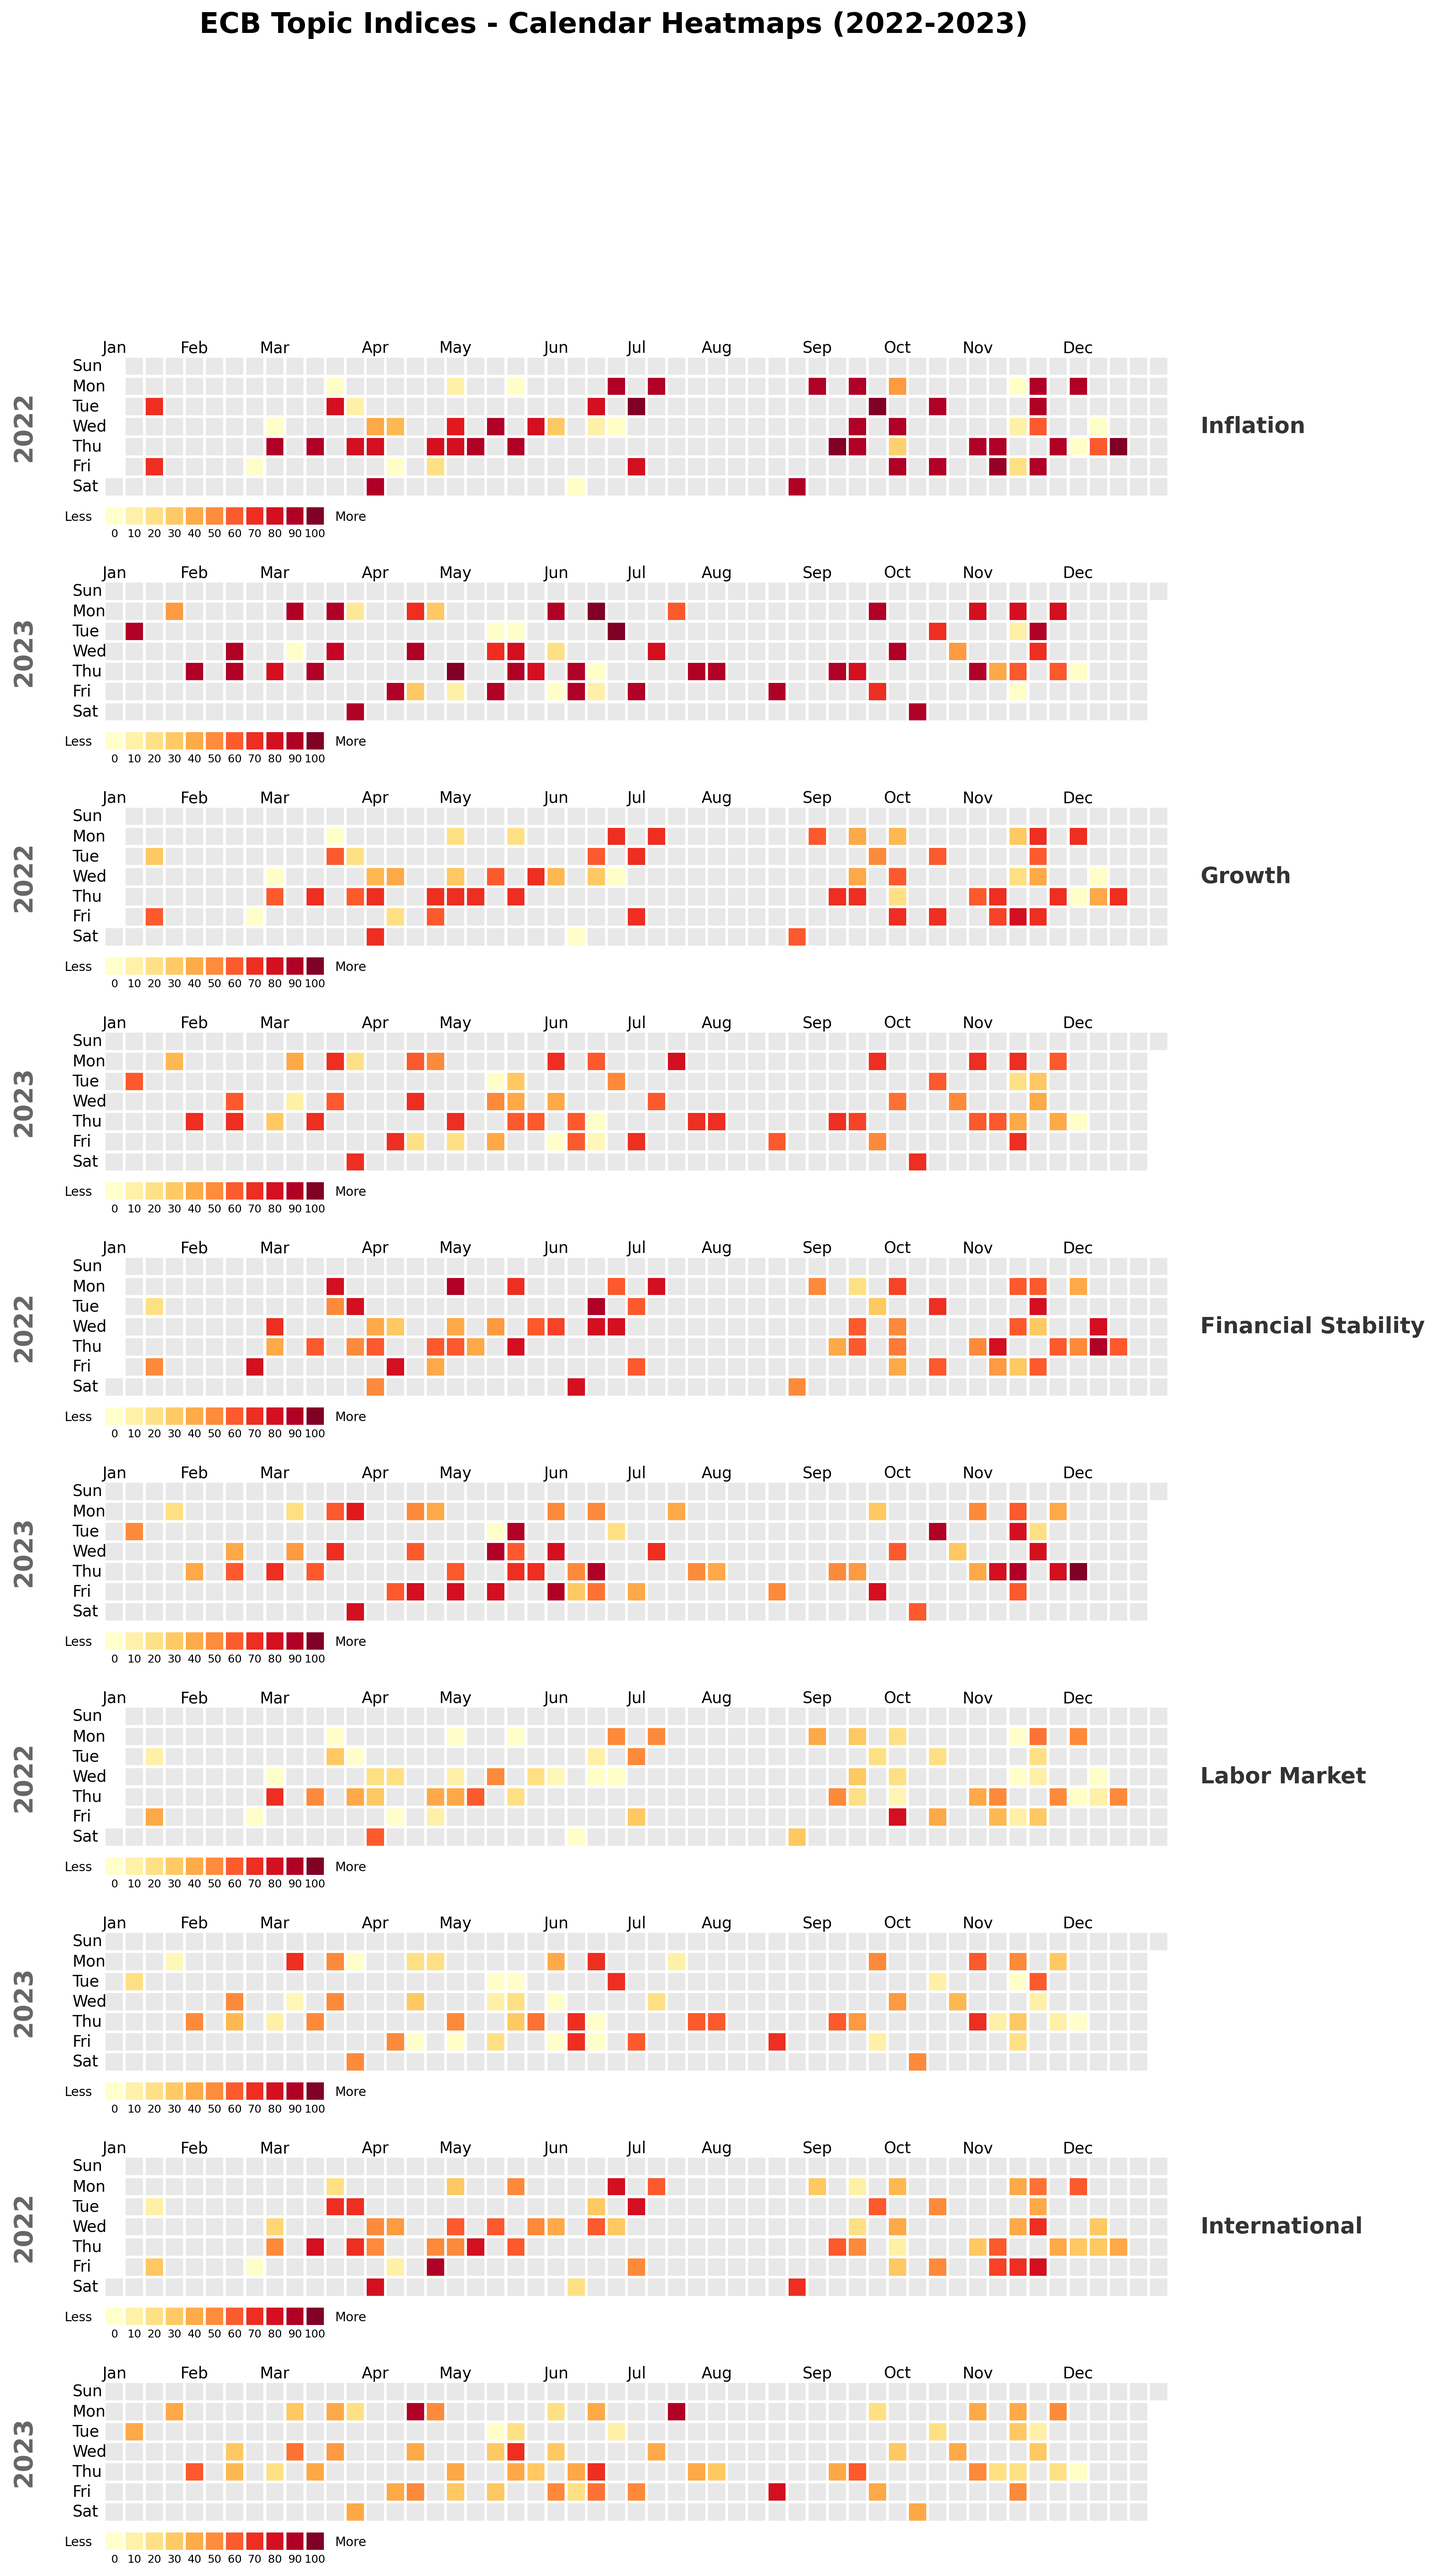
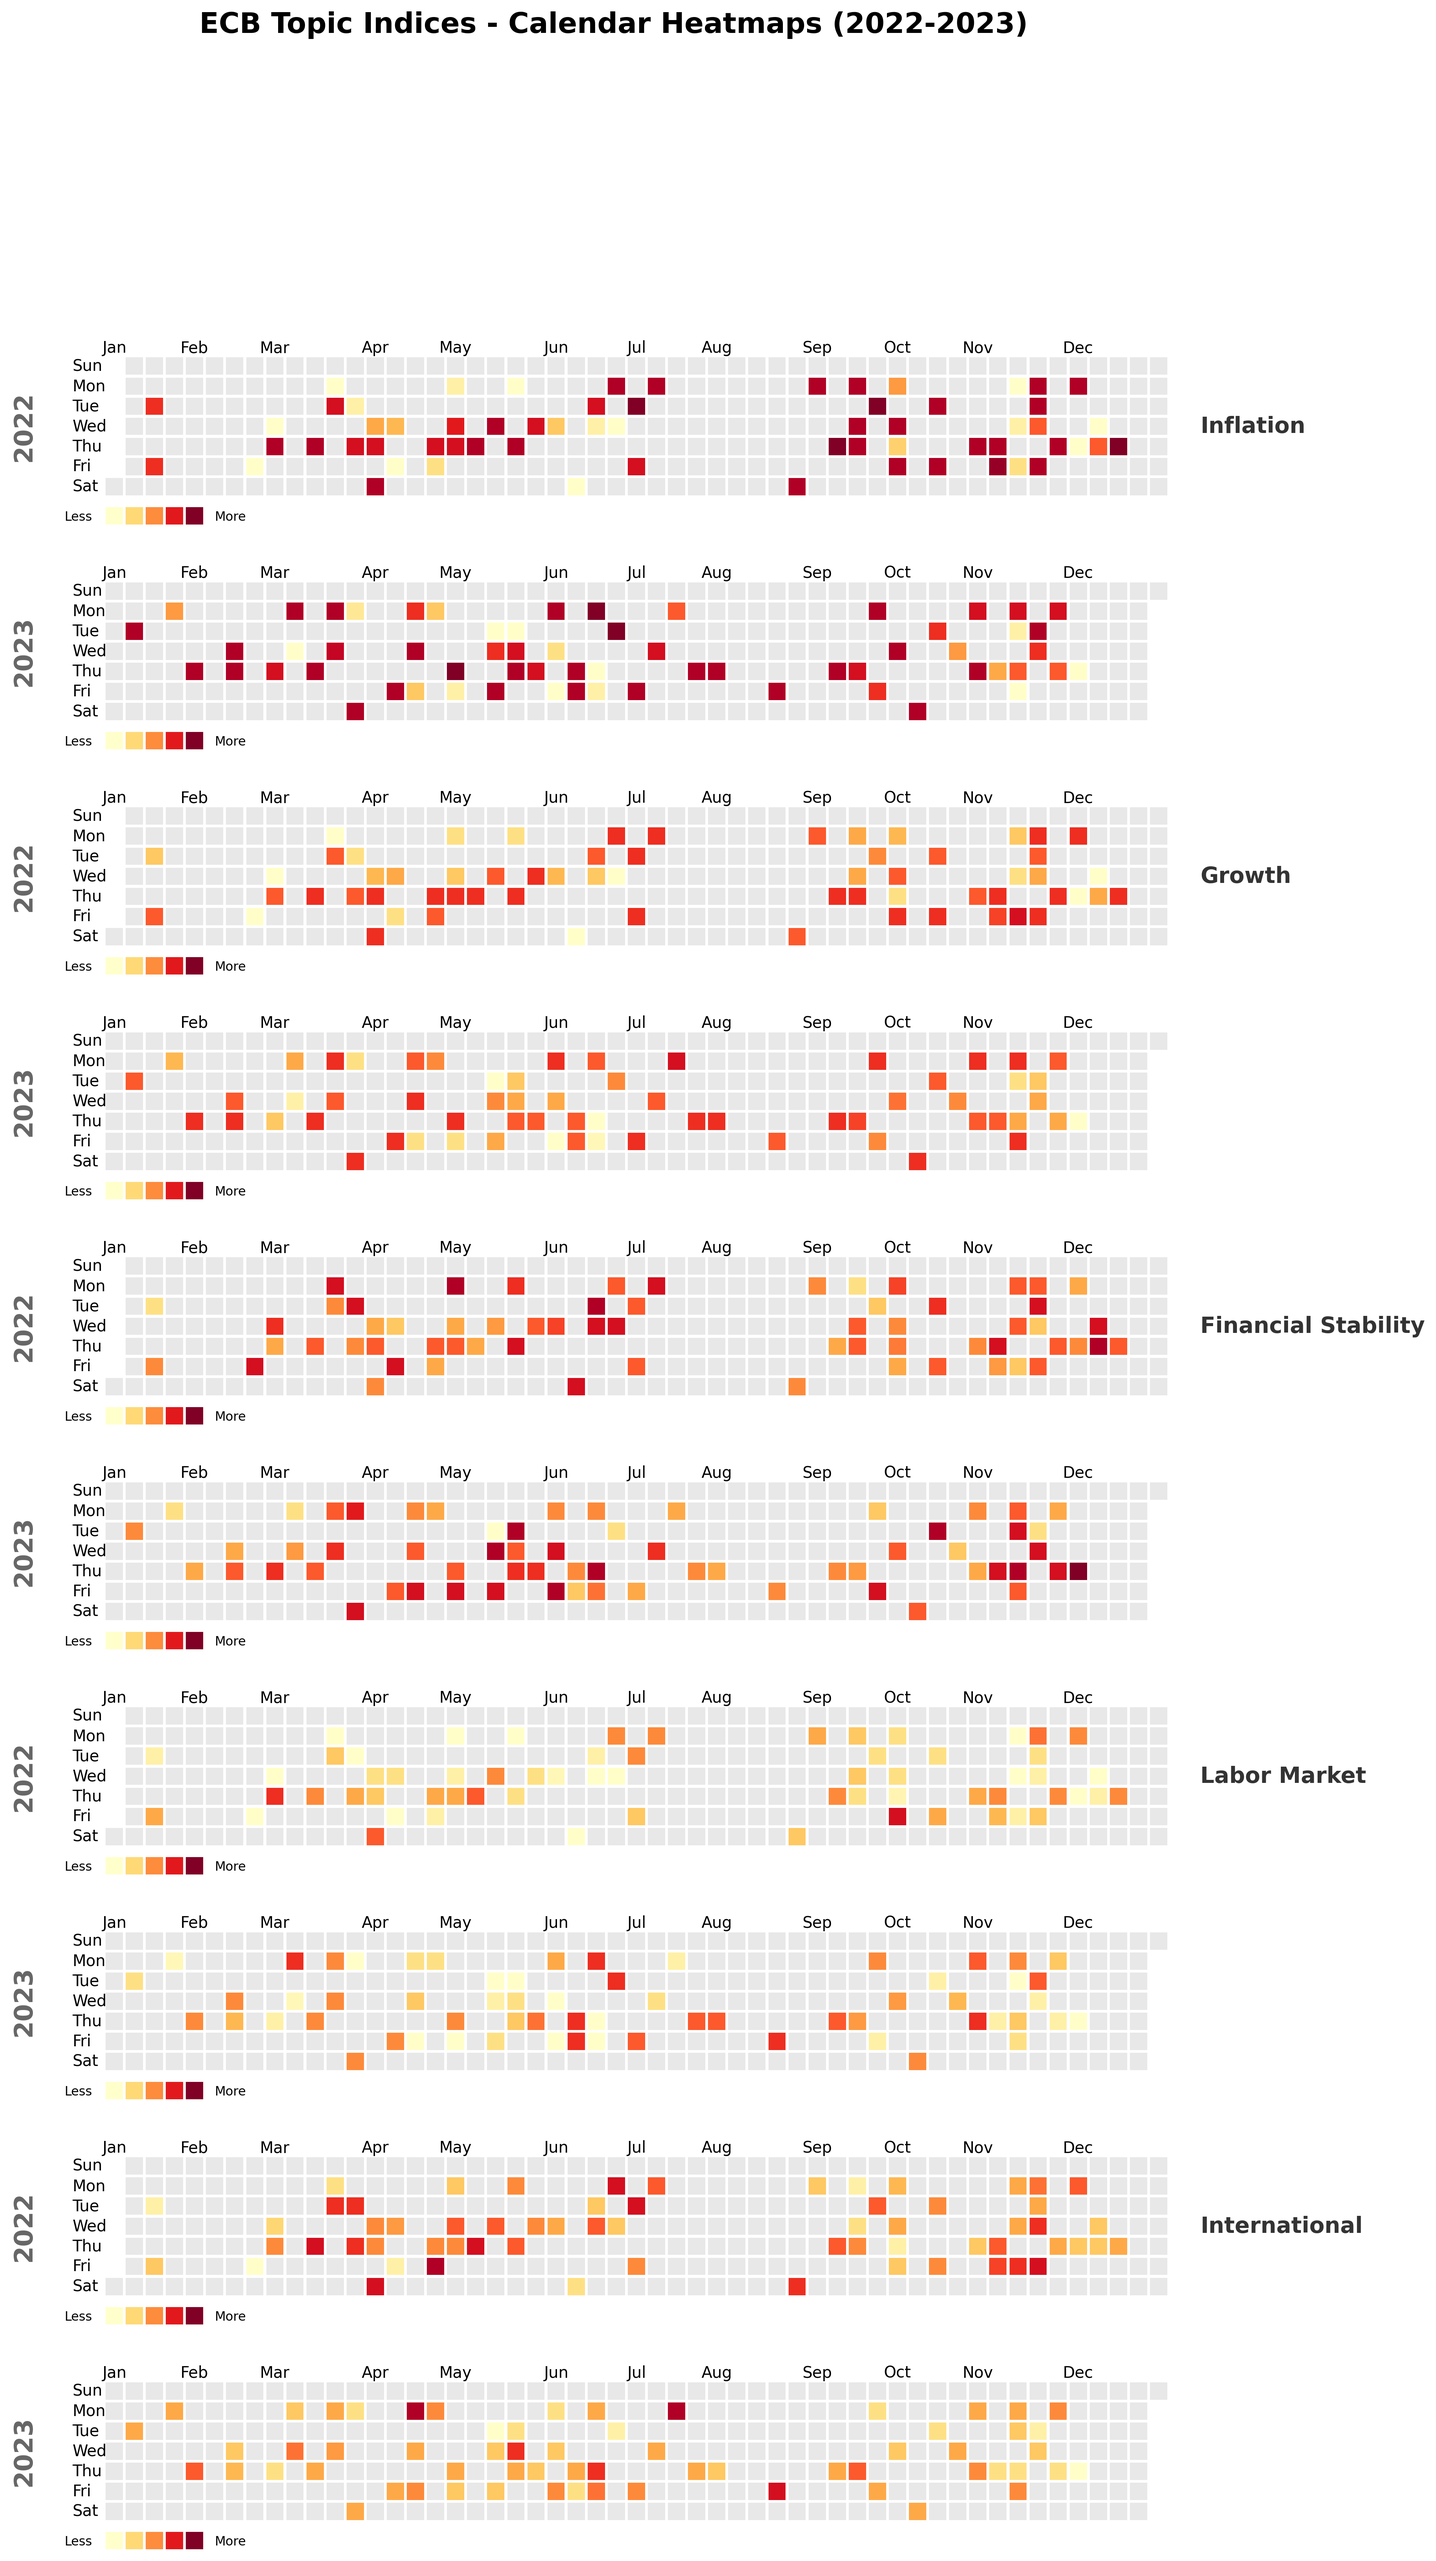
feat: Simplify topic variable legend in calendar heatmaps and update report images

diff --git a/phase3_visualize_indices_dayplot.py b/phase3_visualize_indices_dayplot.py
@@ -146,21 +146,10 @@ def create_calendar_heatmaps(
                     legend_bins_count = 6  # Show 1, 2, 3, 4, 5, 6
                     legend_labels_custom = "auto"
                 elif var.startswith("topic_"):
-                    # Topic variables: use explicit 0-100 scale in legend
-                    legend_bins_count = 11
-                    legend_labels_custom = [
-                        "0",
-                        "10",
-                        "20",
-                        "30",
-                        "40",
-                        "50",
-                        "60",
-                        "70",
-                        "80",
-                        "90",
-                        "100",
-                    ]
+                    # Topic variables: 5 bins for better color differentiation
+                    # No labels on legend for cleaner look
+                    legend_bins_count = 5
+                    legend_labels_custom = None
                 else:
                     legend_bins_count = 11  # Standard bins for other metrics
                     legend_labels_custom = "auto"
